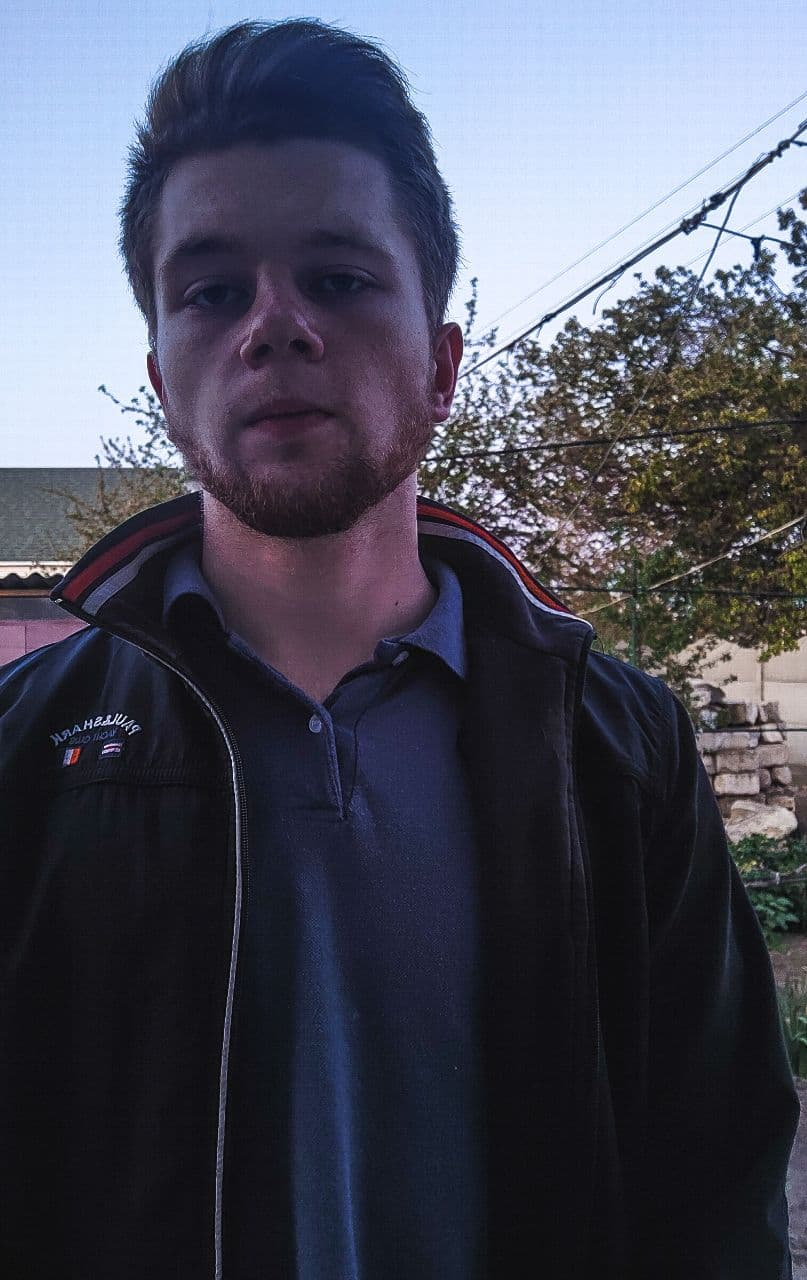
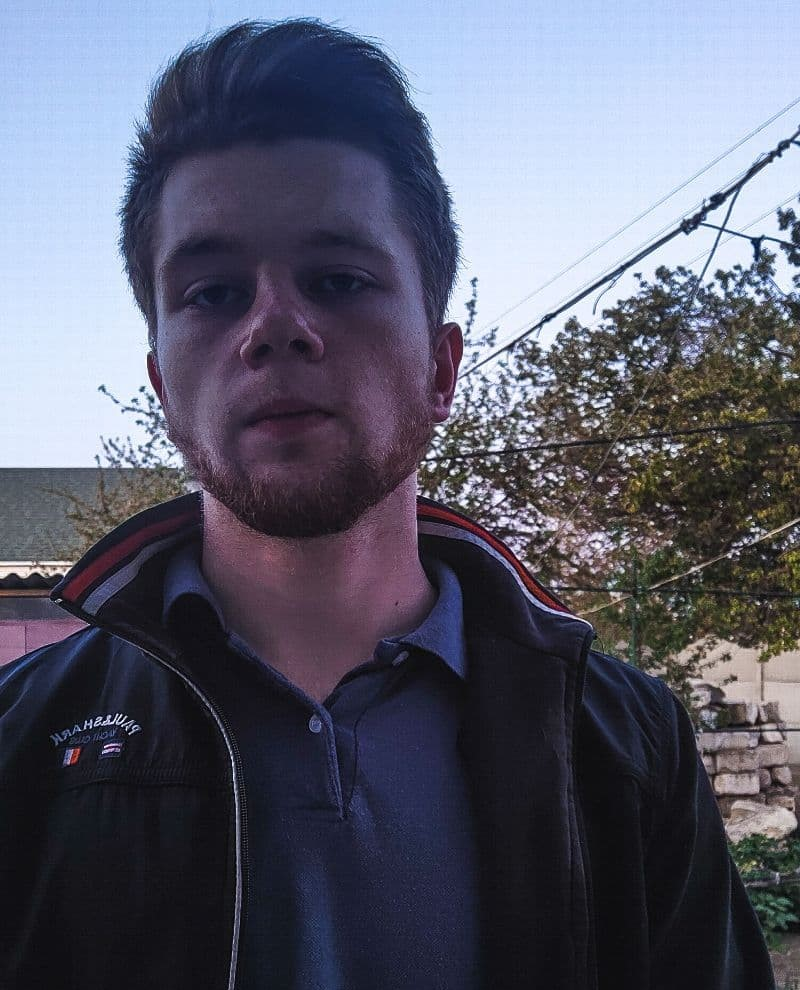
2.1 improved adaptability for mobile

diff --git a/main/static/main/css/main.css b/main/static/main/css/main.css
@@ -1,3 +1,22 @@
+/* preloader */
+
+.preloader {
+    position: fixed;
+    top: 0;
+    left: 0;
+    width: 100%;
+    height: 100%;
+    z-index: 99999;
+    display: flex;
+    flex-flow: row nowrap;
+    justify-content: center;
+    align-items: center;
+    background: none repeat scroll 0 0 #F1F1F1;
+}
+
+
+/* body */
+
 body {
     background: #ffffff;
     font-family: Raleway;
@@ -6,13 +25,41 @@ body {
     overflow-x: hidden;
 }
 
-#feedback .form-control {
-    border: 1px solid #f0f0f0;
-    box-shadow: none;
-    margin-top: 10px;
-    margin-bottom: 10px;
-    transition: all 0.4s ease-in-out;
+article {
+    margin-right: 100px;
+    margin-left: 100px;
 }
+
+article section {
+    text-align: center;
+    margin-top: 10px;
+}
+
+body a {
+    color: black;
+}
+
+body a:hover {
+    color: #7E7E7E;
+}
+
+/* navbar */
+
+.main-img {
+    width: 180px;
+    margin-left: 10px;
+    margin-right: 10px;
+}
+
+.navbar-nav .nav-link {
+    color: rgba(0, 0, 0, 1) !important;
+}
+
+.navbar-nav .nav-link:hover {
+    color: rgba(0, 0, 0, .5) !important;
+}
+
+/* button */
 
 .send-button {
     background: #222;
@@ -29,44 +76,13 @@ body {
     background: #000;
 }
 
+/* Home */
 
-.preloader {
-    position: fixed;
-    top: 0;
-    left: 0;
-    width: 100%;
-    height: 100%;
-    z-index: 99999;
-    display: flex;
-    flex-flow: row nowrap;
-    justify-content: center;
-    align-items: center;
-    background: none repeat scroll 0 0 #F1F1F1;
+.my-photo {
+    width: 200px;
 }
 
-.navbar-nav .nav-link {
-    color: rgba(0, 0, 0, 1) !important;
-}
-
-.navbar-nav .nav-link:hover {
-    color: rgba(0, 0, 0, .5) !important;
-}
-
-.main-img {
-    width: 180px;
-    margin-left: 10px;
-    margin-right: 10px;
-}
-
-article {
-    margin-right: 100px;
-    margin-left: 100px;
-}
-
-article section {
-    text-align: center;
-    margin-top: 10px;
-}
+/* News */
 
 .news-col {
     padding-top: 10px;
@@ -82,6 +98,8 @@ article section {
 .article-img {
     width: 200px;
 }
+
+/* Reviews */
 
 .revs p, .revs h4 {
     text-align: center;
@@ -103,11 +121,14 @@ article section {
     width: 70%;
 }
 
+/* forms */
 
 form {
-    width: 400px;
-    margin: auto;
+    width: 250px;
+    margin: auto auto;
 }
+
+/* Profile */
 
 .alert-light {
     margin-top: 50px;
@@ -125,14 +146,12 @@ form {
 }
 
 .prf-img {
-    width: 200px;
-    height: 200px;
+    width: 90px;
+    height: 90px;
     border-radius: 50%;
 }
 
-.my-photo {
-    width: 250px;
-}
+/* Projects */
 
 .img-responsive {
     width: 300px;
@@ -176,11 +195,20 @@ form {
     opacity: 0.7;
 }
 
-@media (min-width: 992px) {
-    #hometext {
-        font-size: 35px;
-    }
+/* Feedback */
+
+#feedback .send-button {
+    width: 100px;
 }
+
+#feedback .form-control {
+    border: 1px solid #f0f0f0;
+    box-shadow: none;
+    transition: all 0.4s ease-in-out;
+    margin: 10px auto 10px auto;
+}
+
+/* Footer */
 
 footer {
     border-top: 1px solid #f0f0f0;
@@ -211,11 +239,55 @@ footer .footer-row .col {
     text-align: center;
 }
 
-
-body a {
-    color: black;
+@media (max-width: 480px) {
+    form {
+        width: 150px;
+    }
 }
 
-body a:hover {
-    color: #7E7E7E;
+@media (max-width: 350px) {
+    form {
+        width: 100px;
+    }
+    #feedback {
+        width: 150px;
+    }
+
+    #feedback {
+        width: 100px;
+    }
+}
+
+
+@media (min-width: 720px) {
+    #hometext {
+        font-size: 40px;
+    }
+
+    .logo {
+        width: 190px;
+        height: 120px;
+    }
+
+    .my-photo {
+        width: 250px;
+        margin: 0 auto;
+    }
+
+    #feedback {
+        width: 500px;
+    }
+
+    #feedback .send-button {
+        width: 150px;
+    }
+
+    .prf-img {
+        width: 200px;
+        height: 200px;
+    }
+
+    form {
+        width: 400px;
+    }
 }

diff --git a/main/templates/main/home.html b/main/templates/main/home.html
@@ -5,16 +5,19 @@
 {% block title %}Home{% endblock %}
 
 {% block content %}
-    <div class="row" style="text-align: center;">
-        <div class="col-lg-3">
-            <img src="{% static 'main/img/my_photo.jpg' %}" class="rounded my-photo">
+    <div class="row justify-content-center my-3">
+        <div class="col-5">
+            <img src="{% static 'main/img/my_photo.jpg' %}" class="img-fluid">
         </div>
-        <div class="col p-5">
-            <h2 id="hometext" class="font-weight-bold">Dark Stussy is beginner developer and lives in Sofia.</h2>
-            <h2 id="hometext" class="font-weight-bold">Programming languages: Python, C++</h2>
-            <h2 id="hometext" class="font-weight-bold">Works with Django, aiogram, Unreal Engine...(The list is
-                growing) </h2>
+    </div>
+
+    <div class="row justify-content-center mb-3">
+        <div class="col-md-9 text-center">
+            <h3 id="hometext" class="font-weight-bold">Dark Stussy is beginner developer and lives in Sofia.</h3>
+            <h3 id="hometext" class="font-weight-bold">Programming languages: Python, C++</h3>
+            <h3 id="hometext" class="font-weight-bold">Works with Django, aiogram, Unreal Engine...(The list is
+                growing) </h3>
         </div>
-    </div><br><br>
+    </div>
     <h5>Take a look at my <a href="{% url 'projects' %}">projects </a></h5>
 {% endblock %}

diff --git a/accounts/templates/accounts/profile.html b/accounts/templates/accounts/profile.html
@@ -16,19 +16,18 @@
     </div>
 
 
-    <div class="btn-group">
-        <button class="btn btn-outline-dark btn-sm prf-btn" data-bs-toggle="modal"
+    <div class="btn-group-vertical">
+        <button class="btn btn-outline-dark prf-btn" data-bs-toggle="modal"
                 data-bs-target="#myPassChange">Change pass
         </button>
-        <button type="button" class="btn btn-outline-dark btn-sm prf-btn" data-bs-toggle="modal"
+        <button type="button" class="btn btn-outline-dark prf-btn" data-bs-toggle="modal"
                 data-bs-target="#myPrfEdit">Edit Profile
         </button>
-        <button type="button" class="btn btn-outline-dark btn-sm prf-btn" data-bs-toggle="modal"
+        <button type="button" class="btn btn-outline-dark prf-btn" data-bs-toggle="modal"
                 data-bs-target="#myImgEdit">Change image
         </button>
-        <a class="btn btn-outline-dark" href="{% url 'logout' %}?next={{ request.path }}">Log out</a>
-    </div>
-
+        <a class="btn btn-outline-dark prf-btn" href="{% url 'logout' %}?next={{ request.path }}">Log out</a>
+    </div><br>
 
     <div class="modal fade" tabindex="-1" id="myPrfEdit" role="dialog">
         <div class="modal-dialog" role="document">

diff --git a/main/templates/main/base.html b/main/templates/main/base.html
@@ -26,7 +26,7 @@
 <nav class="navbar navbar-expand-md navbar-light">
     <div class="container">
         <a class="navbar-brand" href="{% url 'index' %}">
-            <img src="{% static 'main/img/Stussy.png' %}" width="200" height="140">
+            <img class="logo" src="{% static 'main/img/Stussy.png' %}" width="120" height="80">
         </a>
         <button class="navbar-toggler" type="button" data-bs-toggle="collapse" data-bs-target="#collapsibleNavbar">
             <span class="navbar-toggler-icon"></span>

diff --git a/main/templates/main/projects.html b/main/templates/main/projects.html
@@ -4,7 +4,9 @@
 
 {% block content %}
     <h2 class="mt-5">My projects</h2>
+    {% if perms.main.add_project %}
     <a href="{% url 'add_project' %}" class="btn btn-outline-dark">Add a project</a>
+    {% endif %}
     <hr>
     <div class="row portfolio">
         {% for project in projects %}

diff --git a/main/templates/main/feedback.html b/main/templates/main/feedback.html
@@ -11,6 +11,6 @@
         {{ form.email }}
         {{ form.message }}
         {% csrf_token %}
-        <button class="send-button" type="submit">Send</button><br><br>
+        <button class="send-button" type="submit">Send</button>
     </form>
 {% endblock %}
